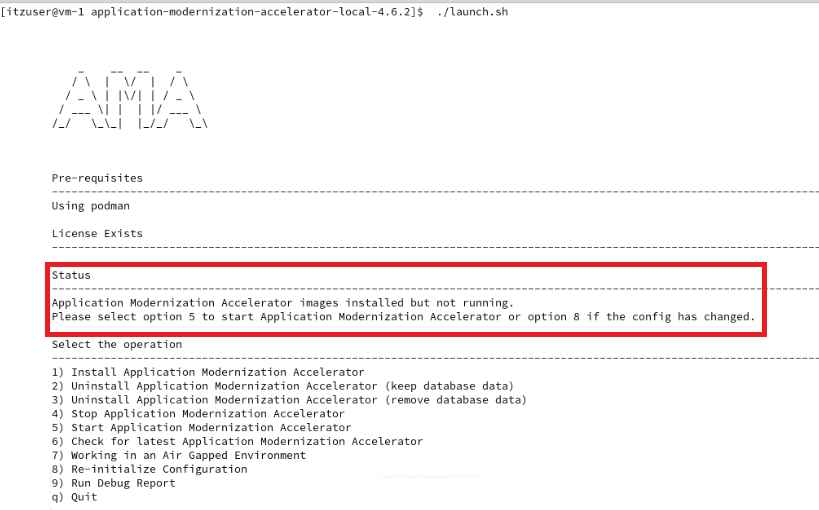
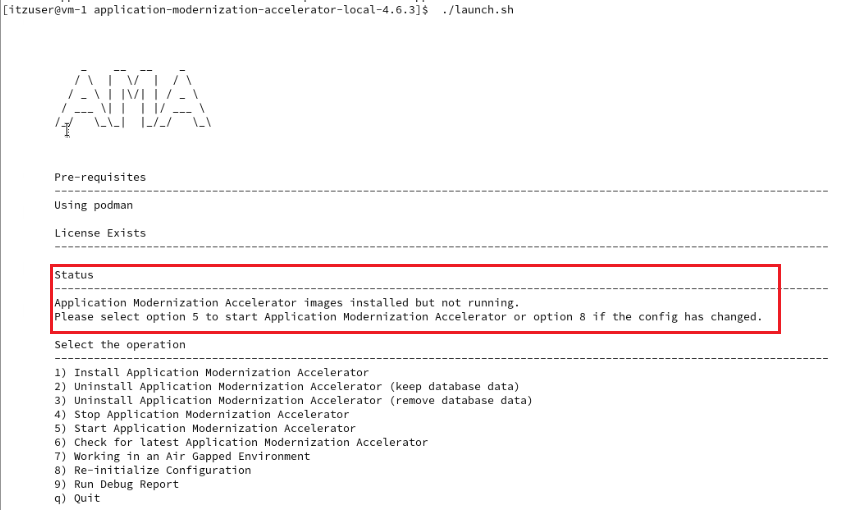
Update screens to 4.6.3

diff --git a/modresorts-project/MODRESORTS_README.md b/modresorts-project/MODRESORTS_README.md
@@ -1,0 +1,47 @@
+# ModResorts Demo Application
+
+The aplication is based on the git repository
+https://github.com/IBM/sample-app-mod but slightly modified.
+
+## Overview
+ModResorts is a IBM WebSphere Application Server web application. It is a simple application that can be used to demonstrate application modernization from IBM WebSphere Application Server traditional to Liberty, which is a modern cloud-ready enterprise Java runtime, as well as Java SE version upgrade scenarios.
+The Java source code is dependent on APIs that only exist on the IBM WebSphere Application Server and as such, this version of the application will only function correctly when deployed to IBM WebSphere Application Server. In order to successfully deploy to Liberty, code changes need to be made to the application.
+
+
+## Building
+
+### IBM WebSphere Application Server Dependencies
+The `main` branch version of ModResorts has dependencies on WebSphere Application Server APIs. The `pom.xml` references the associated WAS dependency and to build the application, you will need to have the dependency available in a maven repository. The `was_public.jar` jar and its associated `pom` file can be found in your WebSphere installation. For example, in a typical installation, you might find them at the following location: `/opt/WebSphere/AppServer/dev`.
+You can install to your local maven repository (`$HOME/.m2`) using the following command:
+
+```
+mvn install:install-file -Dfile=<some location>/was_public.jar -DpomFile=<some location>/was_public-9.0.0.pom
+```
+
+For more information please see the [docs](https://www.ibm.com/docs/en/wasdtfe?topic=environment-installing-server-apis-into-maven-repository).
+
+### Building Using Maven
+This is a standard single module maven application and the WAR can be built as follows:
+
+```
+mvn clean package
+```
+
+## Deploying the Application to IBM WebSphere Application Server
+There are no special instructions for deploying the application to IBM WebSphere Application Server. There is no configuration required on the application server in order for the application to deploy and function.
+
+It can be deployed using the UI console or using `wsadmin`.
+See the [documentation](https://www.ibm.com/docs/en/was-nd/9.0.5?topic=applications-how-do-i-deploy) for more details on deploying the application to WebSphere Application Server.
+
+If you want to configure the weather API URL in traditional WAS, you can use a wsadmin script setURLProvider.py. To install the application to server1, use the script modresorts_install.py.
+
+
+## Deploying the Application to Liberty
+The application as is wil not work on Liberty. Therefore you need to modernize it to get rid of proprietary APIs.
+
+If you want to configure the weather API URL in Liberty, add the following line to the server.xml :
+<jndiURLEntry id="WeatherAPI_URLProvider_1" jndiName="url/WeatherAPI" value="http://api.wunderground.com/api"/> 
+
+
+## Migration Plan
+The `ama` directory contains a migration plan for ModResorts created by [IBM Application Modernization Accelerator](https://www.ibm.com/products/jsphere/tools) (AMA). It is used by IBM AMA Dev Tools (available for VS Code, Eclipse IDE, and IntelliJ IDEA) or IBM Bob to accelerate modernization of legacy enterprise Java applications to run on Liberty.  [Try](https://www.ibm.com/account/reg/us-en/signup?formid=urx-53705) AMA.

diff --git a/README.md b/README.md
@@ -299,12 +299,14 @@ Then you will use the AMA Dev Tools to make the required code changes.
 
 The objective of this section is to assess the simple-pharmacy application that has been deployed to a traditional WAS 9 instance.
 
-### 6.3.1 Build the WAS appplication
+### 6.3.1 Build the WAS application
 
 1. Clone the repository to get access to the application binaries and more.
 
-        git clone https://github.com/LarsBesselmann/sample-app-mod-ama ~/Student/modresorts-project
-
+        rm -rf ~/Student/temprepo/
+        git clone https://github.com/LarsBesselmann/LibertyGettingStarted-2026-AMA-Lab ~/Student/temprepo
+        mv ~/Student/temprepo/modresorts-project ~/Student
+        rm -rf ~/Student/temprepo/
 
 2. Install the required WAS library
 